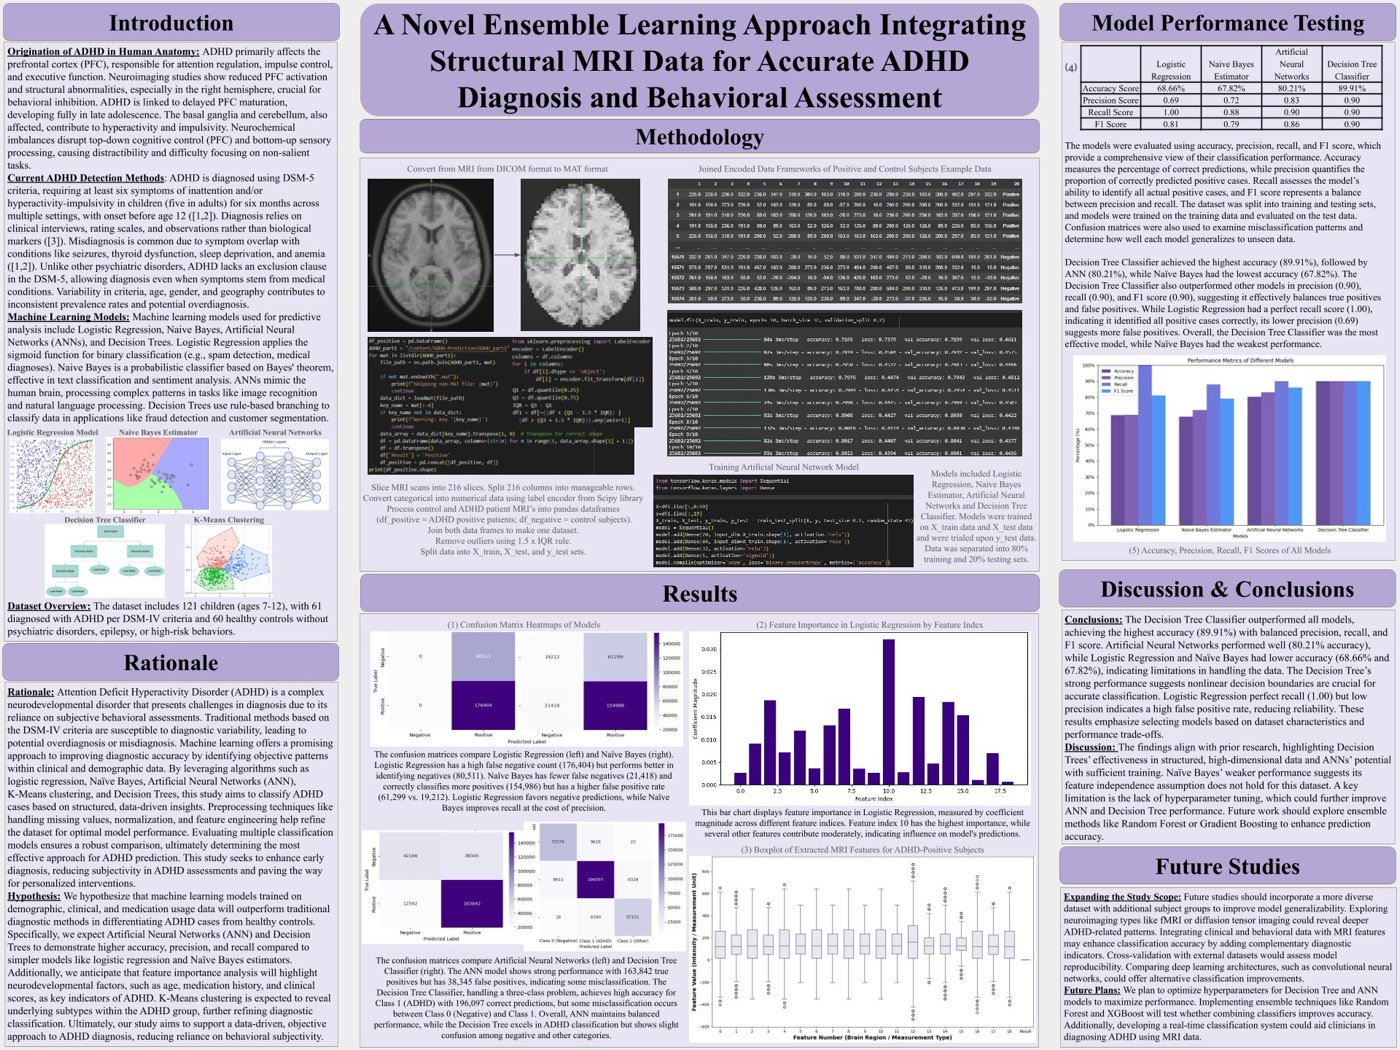
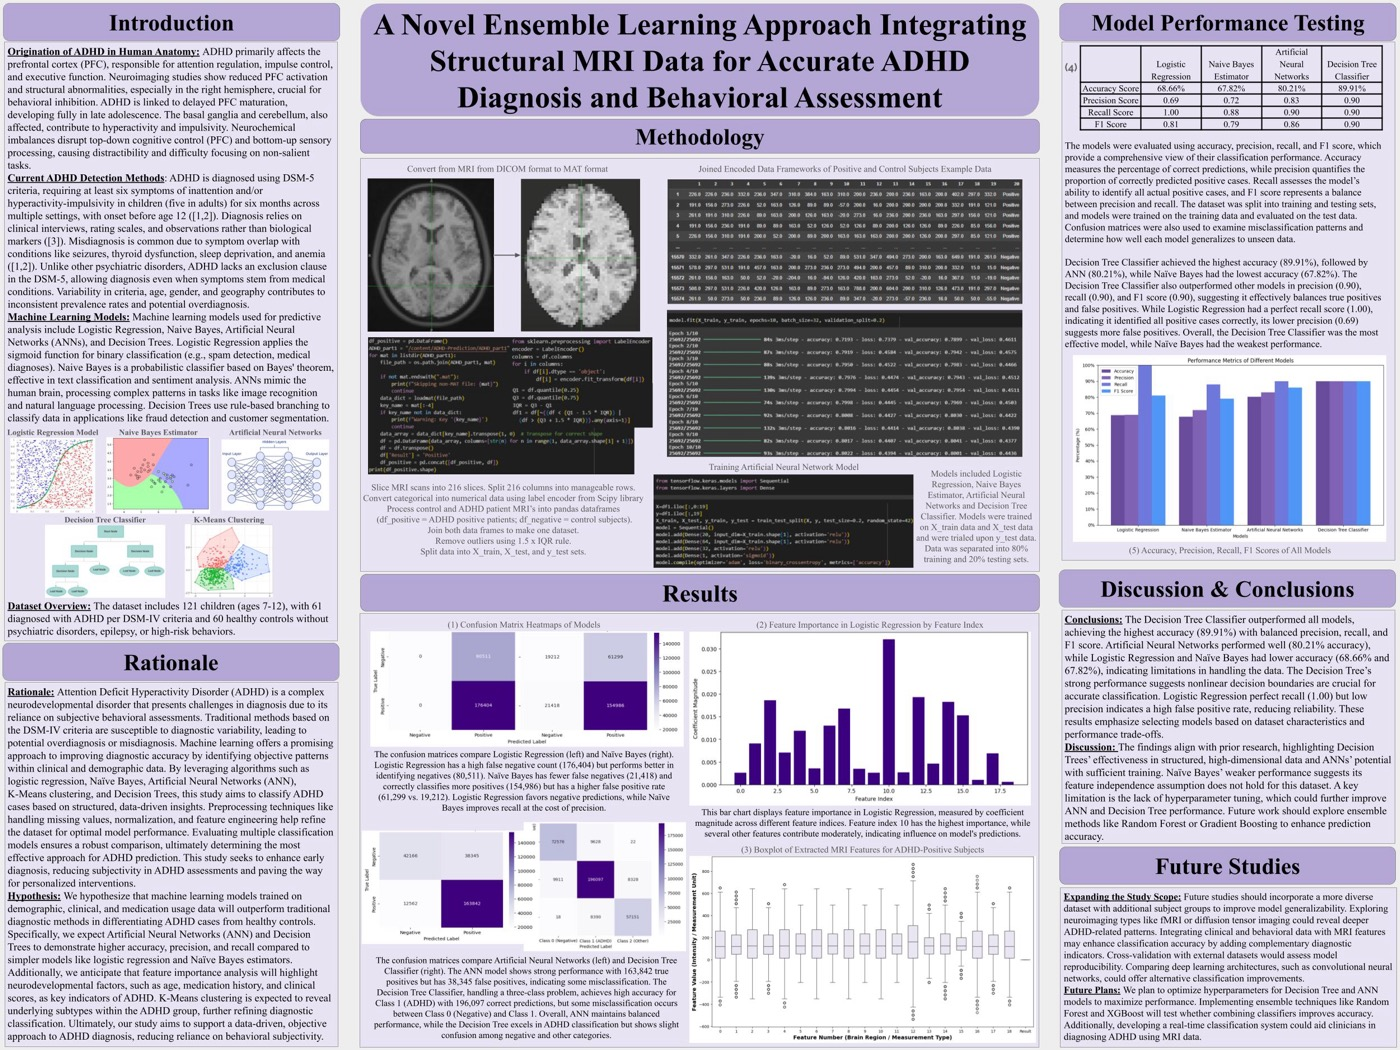
Add hero profile photo, update posters and resume
- Add a circular profile photo to the right side of the Hero section
  (two-column on desktop, stacks on mobile), with an accent glow behind it.
- Replace ADHD and recidivism project poster images with updated versions.
- Update resume PDF.

Claude-Session: https://claude.ai/code/session_0118CZe4tN2PcGqqy8913vfF

diff --git a/src/components/Hero.tsx b/src/components/Hero.tsx
@@ -5,6 +5,7 @@ import SplitText from '@/components/SplitText'
 import Magnet from '@/components/Magnet'
 import Iridescence from '@/components/Iridescence'
 import TextType from '@/components/TextType'
+import profilePhoto from '@/assets/profile-photo.jpg'
 
 const taglines = [
   profile.tagline,
@@ -85,58 +86,74 @@ export function Hero() {
         className="pointer-events-none absolute inset-0 -z-10 opacity-[0.35] [background-image:linear-gradient(color-mix(in_oklab,var(--color-foreground)_6%,transparent)_1px,transparent_1px),linear-gradient(90deg,color-mix(in_oklab,var(--color-foreground)_6%,transparent)_1px,transparent_1px)] [background-size:56px_56px] [mask-image:radial-gradient(60%_60%_at_50%_40%,black,transparent)]"
       />
 
-      <div className="mx-auto w-full max-w-5xl py-32">
-        <p data-hero-fade className="mb-4 font-mono text-xs uppercase tracking-[0.25em] text-primary">
-          {profile.school}
-        </p>
+      <div className="mx-auto grid w-full max-w-5xl grid-cols-1 items-center gap-12 py-32 md:grid-cols-[1.3fr_1fr] md:gap-10">
+        <div>
+          <p data-hero-fade className="mb-4 font-mono text-xs uppercase tracking-[0.25em] text-primary">
+            {profile.school}
+          </p>
 
-        <SplitText
-          text={profile.name}
-          tag="h1"
-          textAlign="left"
-          className="text-5xl font-semibold leading-[1.05] tracking-tight text-foreground sm:text-6xl md:text-7xl"
-          delay={22}
-          duration={0.9}
-          from={{ opacity: 0, y: 48 }}
-          to={{ opacity: 1, y: 0 }}
-        />
+          <SplitText
+            text={profile.name}
+            tag="h1"
+            textAlign="left"
+            className="text-5xl font-semibold leading-[1.05] tracking-tight text-foreground sm:text-6xl md:text-7xl"
+            delay={22}
+            duration={0.9}
+            from={{ opacity: 0, y: 48 }}
+            to={{ opacity: 1, y: 0 }}
+          />
 
-        <p data-hero-fade className="mt-6 flex max-w-xl flex-wrap items-baseline gap-x-2 text-lg text-muted-foreground md:text-xl">
-          <span>{profile.role} ·</span>
-          {motionOk ? (
-            <TextType
-              as="span"
-              text={taglines}
-              typingSpeed={38}
-              deletingSpeed={20}
-              pauseDuration={2200}
-              initialDelay={1300}
-              cursorCharacter="_"
-              cursorClassName="text-primary"
-              className="text-muted-foreground"
-            />
-          ) : (
-            <span>{profile.tagline}</span>
-          )}
-        </p>
+          <p data-hero-fade className="mt-6 flex max-w-xl flex-wrap items-baseline gap-x-2 text-lg text-muted-foreground md:text-xl">
+            <span>{profile.role} ·</span>
+            {motionOk ? (
+              <TextType
+                as="span"
+                text={taglines}
+                typingSpeed={38}
+                deletingSpeed={20}
+                pauseDuration={2200}
+                initialDelay={1300}
+                cursorCharacter="_"
+                cursorClassName="text-primary"
+                className="text-muted-foreground"
+              />
+            ) : (
+              <span>{profile.tagline}</span>
+            )}
+          </p>
 
-        <div data-hero-fade className="mt-10 flex flex-wrap items-center gap-4">
-          <Magnet padding={40} magnetStrength={4}>
-            <a
-              href="#projects"
-              className="inline-flex h-12 items-center rounded-full bg-primary px-6 text-sm font-medium text-primary-foreground shadow-sm transition-transform hover:-translate-y-0.5"
-            >
-              View Projects
-            </a>
-          </Magnet>
-          <Magnet padding={40} magnetStrength={4}>
-            <a
-              href="#contact"
-              className="inline-flex h-12 items-center rounded-full border border-border bg-transparent px-6 text-sm font-medium text-foreground transition-colors hover:bg-muted"
-            >
-              Get in Touch
-            </a>
-          </Magnet>
+          <div data-hero-fade className="mt-10 flex flex-wrap items-center gap-4">
+            <Magnet padding={40} magnetStrength={4}>
+              <a
+                href="#projects"
+                className="inline-flex h-12 items-center rounded-full bg-primary px-6 text-sm font-medium text-primary-foreground shadow-sm transition-transform hover:-translate-y-0.5"
+              >
+                View Projects
+              </a>
+            </Magnet>
+            <Magnet padding={40} magnetStrength={4}>
+              <a
+                href="#contact"
+                className="inline-flex h-12 items-center rounded-full border border-border bg-transparent px-6 text-sm font-medium text-foreground transition-colors hover:bg-muted"
+              >
+                Get in Touch
+              </a>
+            </Magnet>
+          </div>
+        </div>
+
+        <div data-hero-fade className="relative mx-auto md:ml-auto md:mr-0">
+          <div
+            aria-hidden="true"
+            className="absolute -inset-6 -z-10 rounded-full opacity-60 blur-2xl [background:radial-gradient(closest-side,color-mix(in_oklab,var(--color-accent)_35%,transparent),transparent)]"
+          />
+          <img
+            src={profilePhoto}
+            alt={`${profile.name} portrait`}
+            width={480}
+            height={480}
+            className="h-56 w-56 rounded-full border-4 border-card object-cover object-top shadow-2xl sm:h-72 sm:w-72 md:h-80 md:w-80"
+          />
         </div>
       </div>
 
